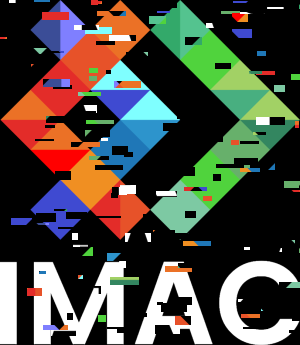
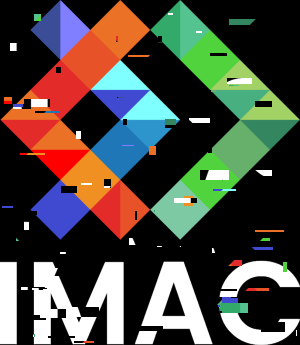
glitch : upgrade code

diff --git a/src/main.cpp b/src/main.cpp
@@ -2,7 +2,6 @@
 #include <optional>
 #include "random.hpp"
 #include <cmath>
-#include <vector>
 
 // ! 1-Star
 void keep_green_only(sil::Image& image)
@@ -177,50 +176,18 @@ void rose_window(sil::Image& image)
 
 void glitch(sil::Image& image, int quantity)
 {
-    sil::Image original_img{image};
-
-    std::vector<std::vector<std::vector<int>>> matrix{};
-    for (size_t i { 0 }; i < quantity; ++i)
+    for (int i{0}; i < quantity; i++)
     {
-        matrix.push_back( std::vector<std::vector<int>> {
-            std::vector<int> {
-                random_int(5, 30), 
-                random_int(2, 10)
-            },
-            std::vector<int> {
-                random_int(0, image.width()-1), 
-                random_int(0, image.height()-1)
-            },  
-            std::vector<int> {
-                random_int(0, image.width()-1),
-                random_int(0, image.height()-1)
-            }
-        });
-    }
+        glm::ivec2 size{random_int(1, image.width()/10), random_int(1, image.height()/30)};
+        glm::ivec2 point1{random_int(0, image.width()-size.x), random_int(0, image.height()-size.y)};
+        glm::ivec2 point2{random_int(0, image.width()-size.x), random_int(0, image.height()-size.y)};
 
-    for (std::vector<std::vector<int>> exchange : matrix)
-    {
-        std::vector<int> vector{exchange[0]};
-        std::vector<int> p1{exchange[1]};
-        std::vector<int> p2{exchange[2]};
-
-        for (int x{0}; x < vector[0]; x++)
+        for (int x{0}; x < size.x; x++)
         {
-            for (int y{0}; y < vector[1]; y++)
+            for (int y{0}; y < size.y; y++)
             {
-                int next_p1_x{(p1[0]+x)<image.width()? p1[0]+x : image.width()-1};
-                int next_p1_y{(p1[1]+y)<image.height()? p1[1]+y : image.height()-1};
-                int next_p2_x{(p2[0]+x)<image.width()? p2[0]+x : image.width()-1};
-                int next_p2_y{(p2[1]+y)<image.height()? p2[1]+y : image.height()-1};
-
-                image.pixel(next_p1_x, next_p1_y) = original_img.pixel(
-                    next_p2_x, 
-                    next_p2_y
-                );
-                image.pixel(next_p2_x, next_p2_y) = original_img.pixel(
-                    next_p1_x, 
-                    next_p1_y
-                );
+                image.pixel(point1.x + x, point1.y + y) = image.pixel(point2.x + x, point2.y + y);
+                image.pixel(point2.x + x, point2.y + y) = image.pixel(point1.x + x, point1.y + y);
             }
         }
     }

diff --git a/README.md b/README.md
@@ -75,10 +75,18 @@ J'ai finis par faire x+1 avant de changer pour image.width-1.
 
 ### Glitch
 Error : glm::vec3& sil::Image::pixel(int, int): Assertion `x < _width' failed.
+
+
 Bug : J'avais mal fait ma condition de boucle : x < vector[0] || p1[0]+x < image.width()
+
 C'était pour proteger une sortie de l'image mais l'effet était autre, et j'ai mis la protection à un autre endroit.
 
+
 ![Glitch bug](/output/3-Stars/glitch/bug-glitch.png "Glitch bug")
-
-
 ![Glitch](/output/3-Stars/glitch.png "Glitch")
+
+J'ai amélioré ma 1ère version du code en retirant les variables répétitives et inutiles, en modifiant les noms de variables et leur type (vector à ivec2 qui est plus adapté pour les coordonnées).
+
+Points d'amélioration possibles : 
+- Répétition pour le point1 et le point2 : on pourrait créer une fonction pour générer des coordonnées aléatoires, mais ici, pour 2 points, j'ai trouvé que ce n'était pas forcément nécessaire. 
+- Répétition de ligne pour l'échange de pixels avec juste les valeurs interverties. 
